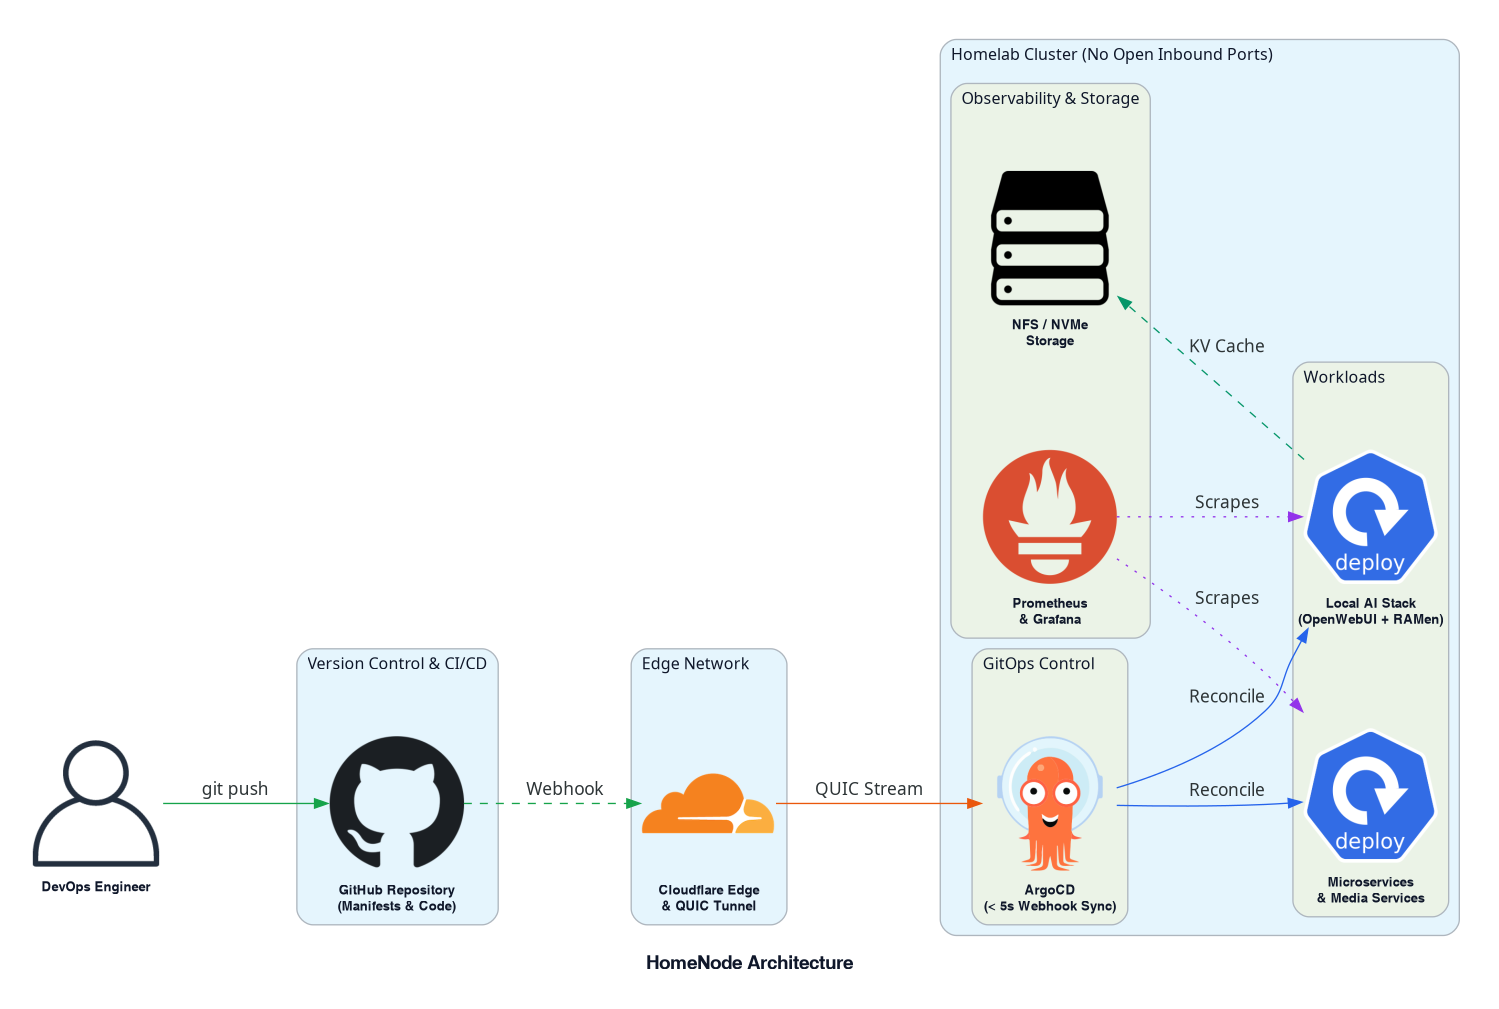
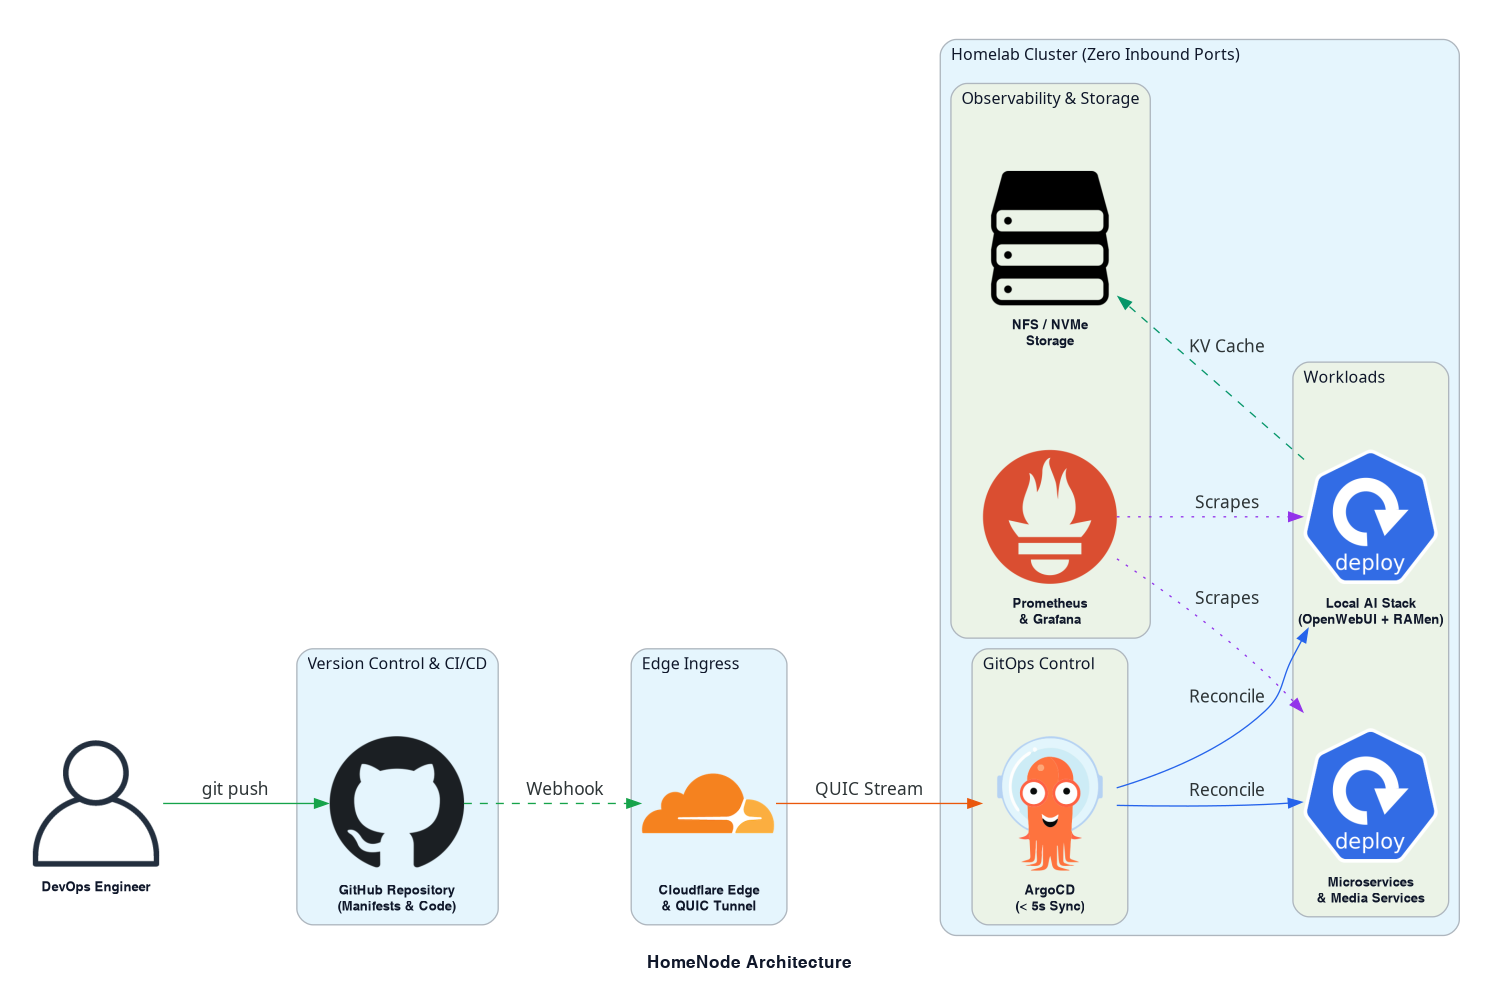
feat: add animated homelab architecture flow gif in hero

diff --git a/scripts/generate_diagram.py b/scripts/generate_diagram.py
@@ -1,10 +1,15 @@
 #!/usr/bin/env python3
 """
-HomeNode Architecture Diagram Generator using diagrams.py
-Generates the hero architecture diagram for homenode.online
+HomeNode Architecture Diagram and Flow GIF Generator
+Uses diagrams.py to generate architecture components and renders
+an animated GIF depicting live data flow across the pipeline.
 """
 
 import os
+import re
+import xml.etree.ElementTree as ET
+from PIL import Image, ImageDraw
+
 from diagrams import Diagram, Cluster, Edge
 from diagrams.onprem.vcs import Github
 from diagrams.saas.cdn import Cloudflare
@@ -14,12 +19,17 @@ from diagrams.onprem.client import User
 from diagrams.k8s.compute import Deployment
 from diagrams.generic.storage import Storage
 
-OUTPUT_DIR = os.path.join(os.path.dirname(os.path.dirname(os.path.abspath(__file__))), "docs", "public", "images")
+ROOT_DIR = os.path.dirname(os.path.dirname(os.path.abspath(__file__)))
+OUTPUT_DIR = os.path.join(ROOT_DIR, "docs", "public", "images")
 os.makedirs(OUTPUT_DIR, exist_ok=True)
-OUTPUT_FILE = os.path.join(OUTPUT_DIR, "hero_diagram")
 
-graph_attr = {
-    "fontsize": "14",
+OUT_BASE = os.path.join(OUTPUT_DIR, "hero_diagram")
+PNG_PATH = f"{OUT_BASE}.png"
+SVG_PATH = f"{OUT_BASE}.svg"
+GIF_PATH = f"{OUT_BASE}.gif"
+
+GRAPH_ATTR = {
+    "fontsize": "13",
     "bgcolor": "#ffffff",
     "fontcolor": "#0f172a",
     "fontname": "Helvetica-Bold",
@@ -30,56 +40,194 @@ graph_attr = {
     "direction": "LR"
 }
 
-node_attr = {
+NODE_ATTR = {
     "fontcolor": "#0f172a",
     "fontsize": "10",
     "fontname": "Helvetica-Bold",
 }
 
-edge_attr = {
+EDGE_ATTR = {
     "color": "#0284c7",
     "fontsize": "9",
     "fontname": "Helvetica",
 }
 
-def generate():
-    with Diagram(
-        "HomeNode Architecture",
-        filename=OUTPUT_FILE,
-        outformat="png",
-        show=False,
-        graph_attr=graph_attr,
-        node_attr=node_attr,
-        edge_attr=edge_attr
-    ):
-        dev = User("DevOps Engineer")
+def build_diagrams():
+    for fmt in ["png", "svg"]:
+        with Diagram(
+            "HomeNode Architecture",
+            filename=OUT_BASE,
+            outformat=fmt,
+            show=False,
+            graph_attr=GRAPH_ATTR,
+            node_attr=NODE_ATTR,
+            edge_attr=EDGE_ATTR
+        ):
+            dev = User("DevOps Engineer")
 
-        with Cluster("Version Control & CI/CD"):
-            gh = Github("GitHub Repository\n(Manifests & Code)")
+            with Cluster("Version Control & CI/CD"):
+                gh = Github("GitHub Repository\n(Manifests & Code)")
 
-        with Cluster("Edge Network"):
-            cf = Cloudflare("Cloudflare Edge\n& QUIC Tunnel")
+            with Cluster("Edge Ingress"):
+                cf = Cloudflare("Cloudflare Edge\n& QUIC Tunnel")
 
-        with Cluster("Homelab Cluster (No Open Inbound Ports)"):
-            with Cluster("GitOps Control"):
-                argo = Argocd("ArgoCD\n(< 5s Webhook Sync)")
+            with Cluster("Homelab Cluster (Zero Inbound Ports)"):
+                with Cluster("GitOps Control"):
+                    argo = Argocd("ArgoCD\n(< 5s Sync)")
 
-            with Cluster("Workloads"):
-                ai_pod = Deployment("Local AI Stack\n(OpenWebUI + RAMen)")
-                app_pod = Deployment("Microservices\n& Media Services")
+                with Cluster("Workloads"):
+                    ai_pod = Deployment("Local AI Stack\n(OpenWebUI + RAMen)")
+                    app_pod = Deployment("Microservices\n& Media Services")
 
-            with Cluster("Observability & Storage"):
-                mon = Prometheus("Prometheus\n& Grafana")
-                nfs = Storage("NFS / NVMe\nStorage")
+                with Cluster("Observability & Storage"):
+                    mon = Prometheus("Prometheus\n& Grafana")
+                    nfs = Storage("NFS / NVMe\nStorage")
 
-        dev >> Edge(color="#16a34a", label="git push") >> gh
-        gh >> Edge(color="#16a34a", style="dashed", label="Webhook") >> cf
-        cf >> Edge(color="#ea580c", label="QUIC Stream") >> argo
-        argo >> Edge(color="#2563eb", label="Reconcile") >> [ai_pod, app_pod]
-        mon >> Edge(color="#9333ea", style="dotted", label="Scrapes") >> [ai_pod, app_pod]
-        ai_pod >> Edge(color="#059669", style="dashed", label="KV Cache") >> nfs
+            dev >> Edge(color="#16a34a", label="git push") >> gh
+            gh >> Edge(color="#16a34a", style="dashed", label="Webhook") >> cf
+            cf >> Edge(color="#ea580c", label="QUIC Stream") >> argo
+            argo >> Edge(color="#2563eb", label="Reconcile") >> [ai_pod, app_pod]
+            mon >> Edge(color="#9333ea", style="dotted", label="Scrapes") >> [ai_pod, app_pod]
+            ai_pod >> Edge(color="#059669", style="dashed", label="KV Cache") >> nfs
 
-    print(f"Generated hero diagram: {OUTPUT_FILE}.png")
+    print(f"Generated base diagram: {PNG_PATH} and {SVG_PATH}")
+
+def parse_bezier_segments(d):
+    tokens = re.findall(r"([A-Za-z])|(-?[0-9]+\.?[0-9]*)", d)
+    cmd = ""
+    coords = []
+    segments = []
+    current_pt = (0.0, 0.0)
+    for c, val in tokens:
+        if c:
+            cmd = c
+            coords = []
+        else:
+            coords.append(float(val))
+            if cmd == "M" and len(coords) == 2:
+                current_pt = (coords[0], coords[1])
+                coords = []
+            elif cmd == "C" and len(coords) == 6:
+                p0 = current_pt
+                p1 = (coords[0], coords[1])
+                p2 = (coords[2], coords[3])
+                p3 = (coords[4], coords[5])
+                segments.append((p0, p1, p2, p3))
+                current_pt = p3
+                coords = []
+    return segments
+
+def sample_bezier(p0, p1, p2, p3, num_points=15):
+    points = []
+    for i in range(num_points + 1):
+        u = i / num_points
+        u2 = u * u
+        u3 = u2 * u
+        mu = 1 - u
+        mu2 = mu * mu
+        mu3 = mu2 * mu
+        x = mu3 * p0[0] + 3 * mu2 * u * p1[0] + 3 * mu * u2 * p2[0] + u3 * p3[0]
+        y = mu3 * p0[1] + 3 * mu2 * u * p1[1] + 3 * mu * u2 * p2[1] + u3 * p3[1]
+        points.append((x, y))
+    return points
+
+def hex_to_rgb(hex_str):
+    hex_str = hex_str.lstrip("#")
+    if len(hex_str) == 6:
+        return tuple(int(hex_str[i:i+2], 16) for i in (0, 2, 4))
+    return (37, 99, 235)
+
+def build_animated_gif():
+    tree = ET.parse(SVG_PATH)
+    root = tree.getroot()
+
+    tx, ty = 0.0, 0.0
+    for g in root.iter("{http://www.w3.org/2000/svg}g"):
+        if g.attrib.get("id") == "graph0":
+            transform = g.attrib.get("transform", "")
+            m = re.search(r"translate\(([-0-9.]+)\s+([-0-9.]+)\)", transform)
+            if m:
+                tx, ty = float(m.group(1)), float(m.group(2))
+            break
+
+    viewbox = root.attrib.get("viewBox", "0 0 1000 1000").split()
+    vb_w, vb_h = float(viewbox[2]), float(viewbox[3])
+
+    edges = []
+    for g in root.iter("{http://www.w3.org/2000/svg}g"):
+        if g.attrib.get("class") == "edge":
+            path = g.find("{http://www.w3.org/2000/svg}path")
+            if path is not None:
+                edges.append({
+                    "d": path.attrib.get("d", ""),
+                    "color": path.attrib.get("stroke", "#2563eb")
+                })
+
+    base_img = Image.open(PNG_PATH).convert("RGBA")
+    target_width = 1100
+    scale_factor = target_width / base_img.width
+    target_height = int(base_img.height * scale_factor)
+    base_resized = base_img.resize((target_width, target_height), Image.Resampling.LANCZOS)
+
+    sx = (base_img.width / vb_w) * scale_factor
+    sy = (base_img.height / vb_h) * scale_factor
+
+    edge_polylines = []
+    for edge in edges:
+        segments = parse_bezier_segments(edge["d"])
+        full_pts = []
+        for p0, p1, p2, p3 in segments:
+            full_pts.extend(sample_bezier(p0, p1, p2, p3, num_points=15))
+        pixel_pts = []
+        for x, y in full_pts:
+            px = (x + tx) * sx
+            py = (ty + y) * sy
+            pixel_pts.append((px, py))
+        if pixel_pts:
+            edge_polylines.append({
+                "points": pixel_pts,
+                "color": hex_to_rgb(edge["color"])
+            })
+
+    total_frames = 20
+    frames = []
+    for frame_idx in range(total_frames):
+        t = frame_idx / total_frames
+        frame = base_resized.copy()
+        overlay = Image.new("RGBA", frame.size, (0, 0, 0, 0))
+        draw = ImageDraw.Draw(overlay)
+
+        for poly in edge_polylines:
+            pts = poly["points"]
+            if len(pts) < 2:
+                continue
+            color = poly["color"]
+            for offset in [0.0, 0.5]:
+                progress = (t + offset) % 1.0
+                idx_float = progress * (len(pts) - 1)
+                i0 = int(idx_float)
+                i1 = min(i0 + 1, len(pts) - 1)
+                frac = idx_float - i0
+                x = pts[i0][0] + frac * (pts[i1][0] - pts[i0][0])
+                y = pts[i0][1] + frac * (pts[i1][1] - pts[i0][1])
+
+                draw.ellipse([x - 7, y - 7, x + 7, y + 7], fill=(color[0], color[1], color[2], 60))
+                draw.ellipse([x - 4, y - 4, x + 4, y + 4], fill=(color[0], color[1], color[2], 180))
+                draw.ellipse([x - 2, y - 2, x + 2, y + 2], fill=(255, 255, 255, 255))
+
+        frame = Image.alpha_composite(frame, overlay)
+        frames.append(frame.convert("RGB"))
+
+    frames[0].save(
+        GIF_PATH,
+        save_all=True,
+        append_images=frames[1:],
+        duration=75,
+        loop=0,
+        optimize=True
+    )
+    print(f"Generated animated GIF: {GIF_PATH}")
 
 if __name__ == "__main__":
-    generate()
+    build_diagrams()
+    build_animated_gif()

diff --git a/docs/index.md b/docs/index.md
@@ -6,8 +6,8 @@ hero:
   text: "DevOps and Homelab Engineering"
   tagline: "High-performance GitOps, bare-metal local AI, automated CI/CD pipelines, and robust Linux infrastructure engineered by Yasir (@aayasir2177)."
   image:
-    src: /images/hero_diagram.png
-    alt: HomeNode Architecture Diagram
+    src: /images/hero_diagram.gif
+    alt: HomeNode Architecture Animated Flow Diagram
   actions:
     - theme: brand
       text: Explore Documentation
